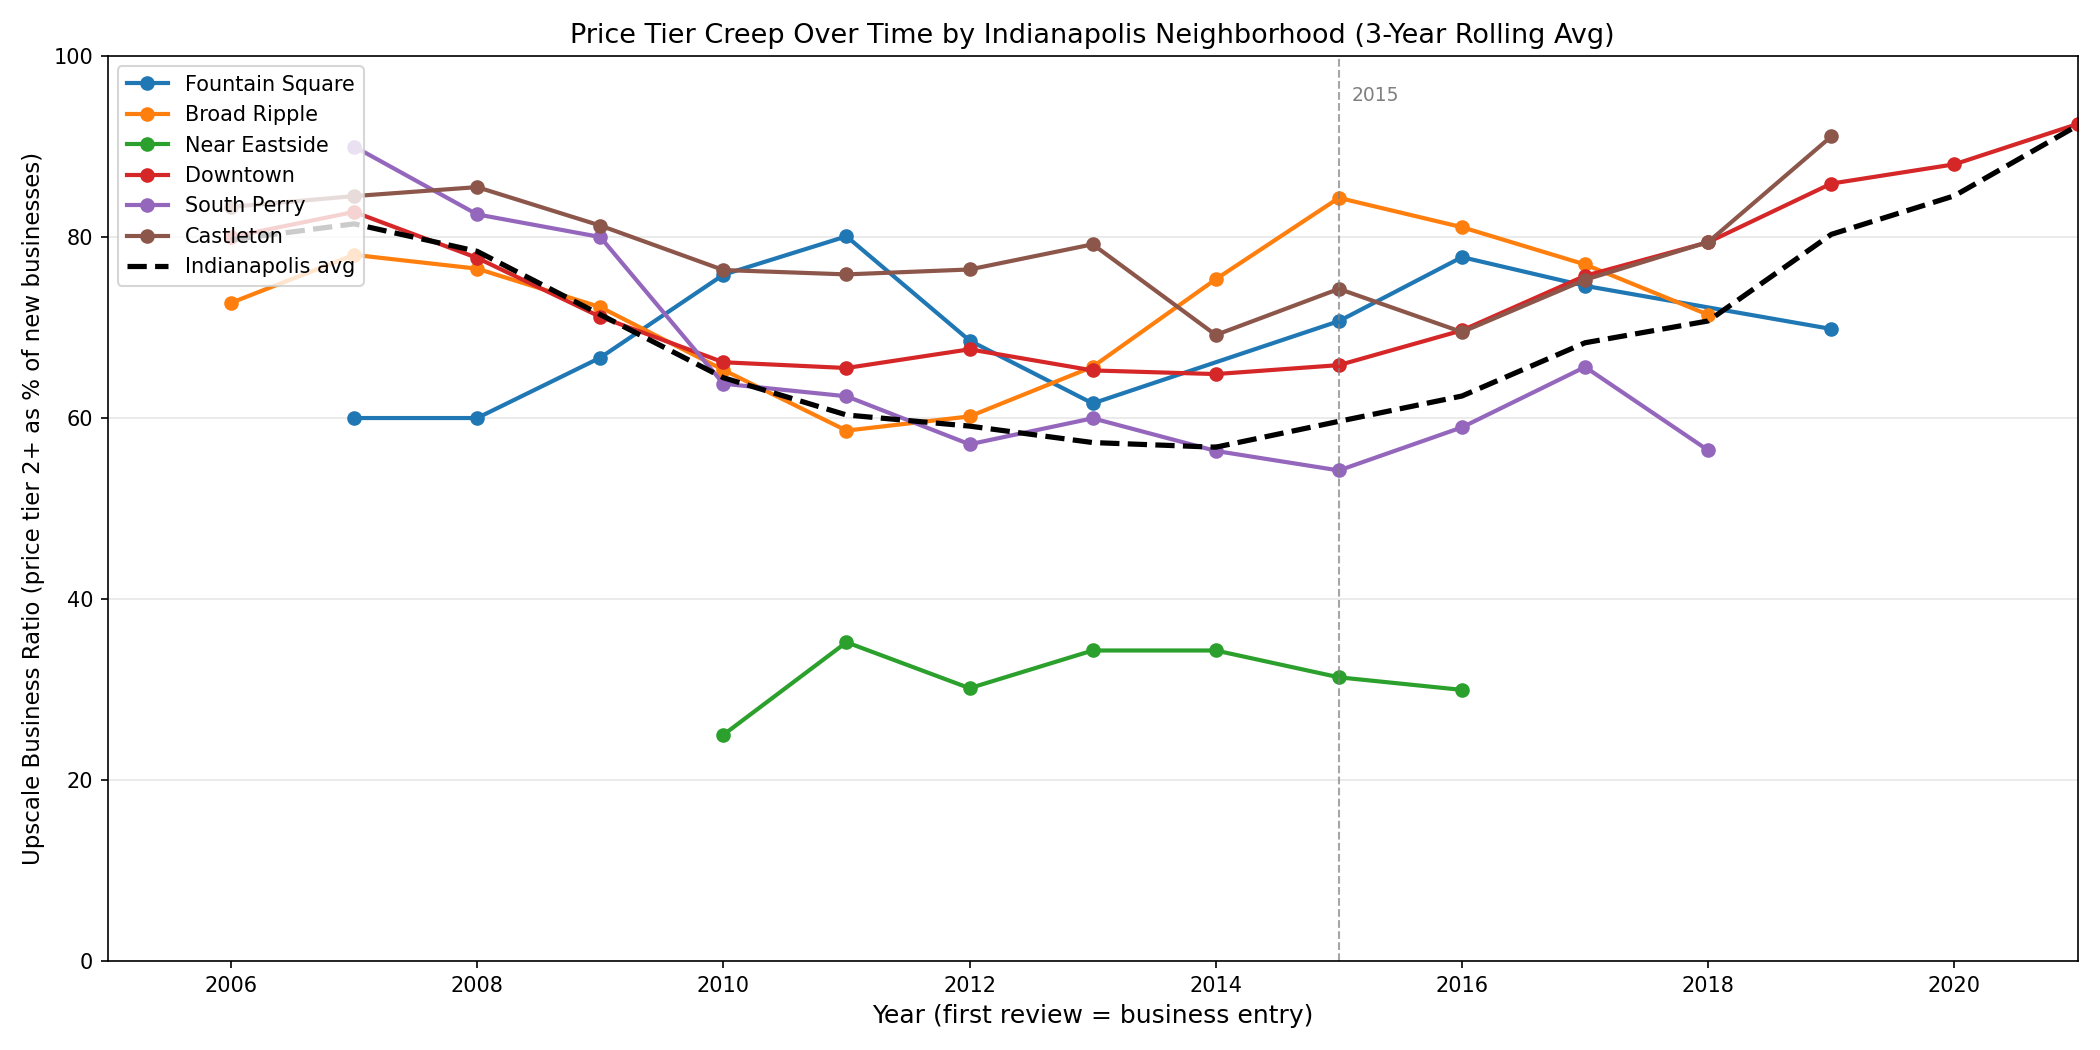
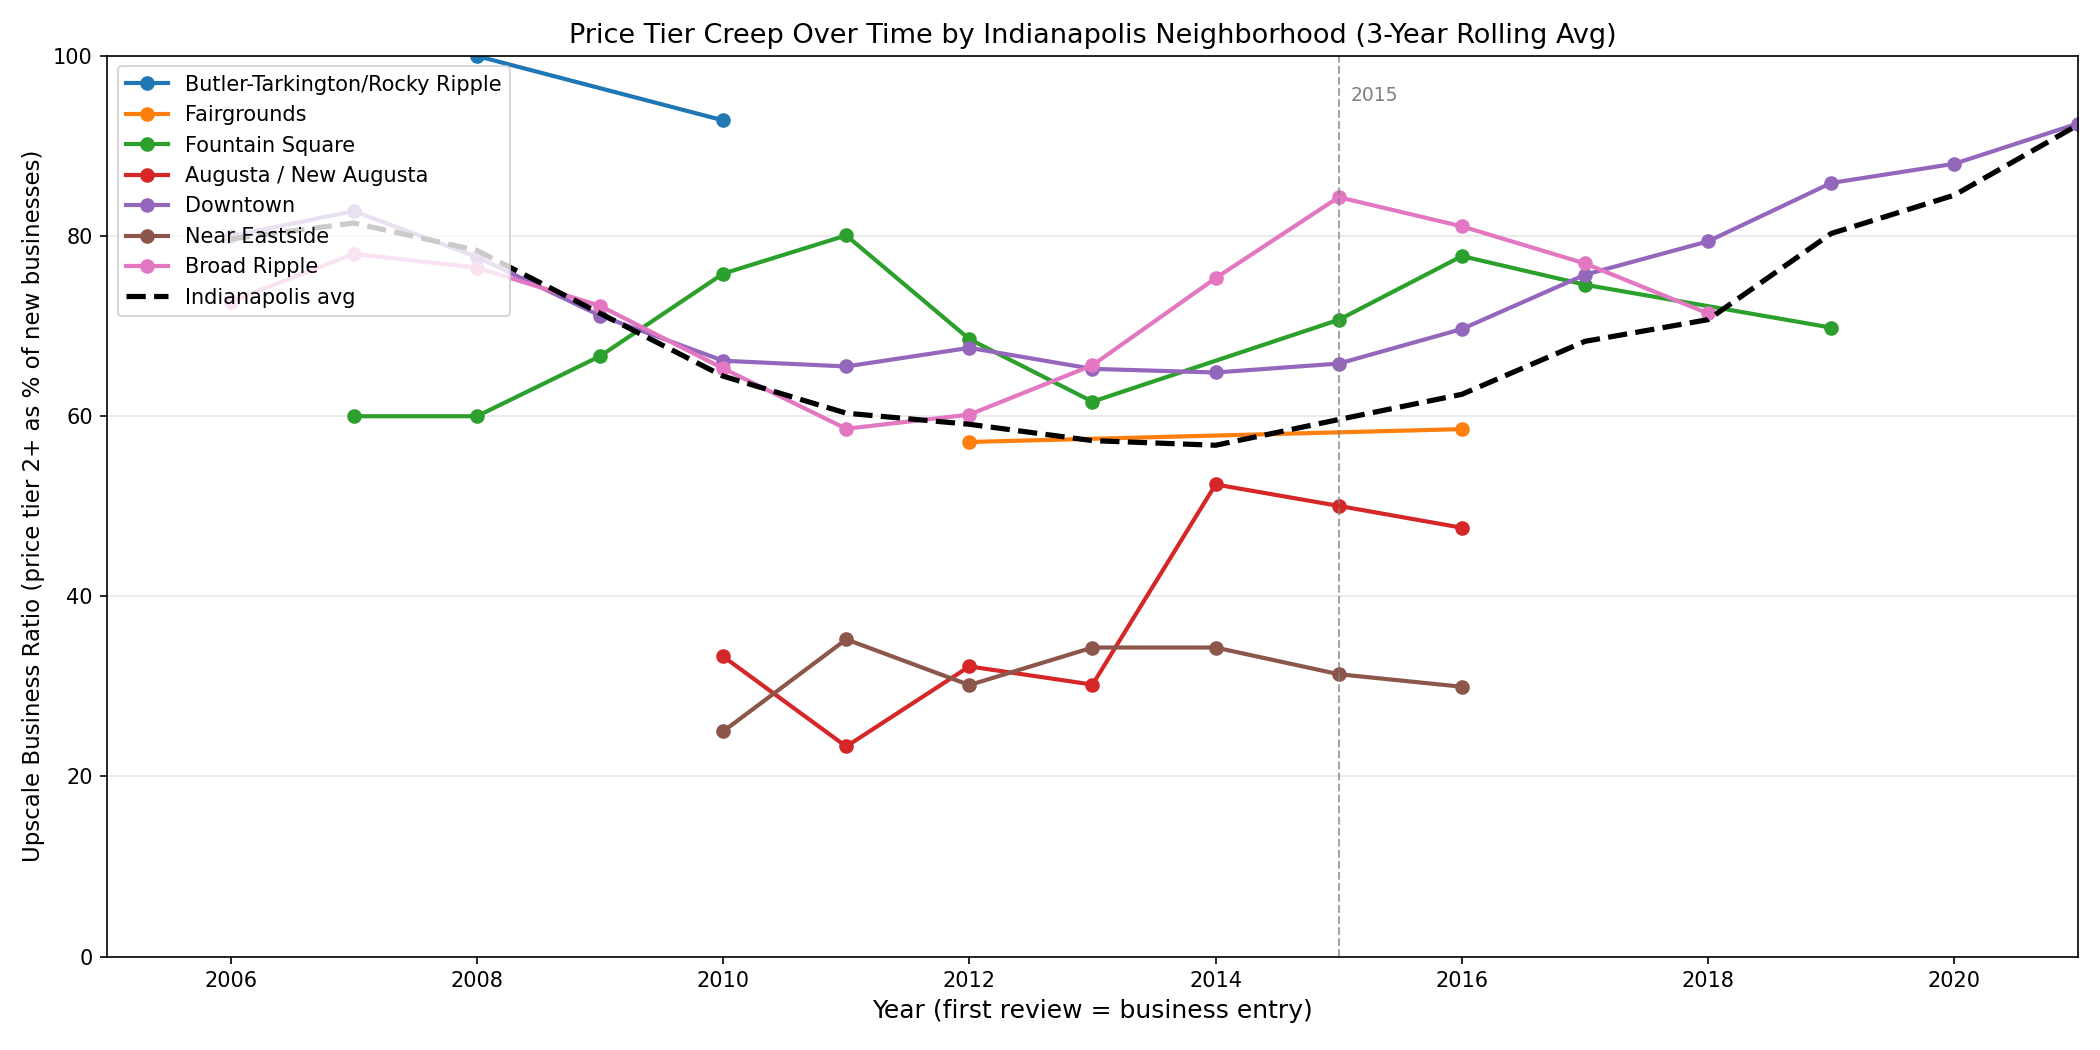
turnover graph

diff --git a/turnover_analysis.py b/turnover_analysis.py
@@ -32,7 +32,17 @@ client.admin.command("ping")
 print(f"Connected to MongoDB at {MONGO_URI}\n")
 
 db = client[DB_NAME]
-
+FOCUS_NEIGHBORHOODS = [
+    "Butler-Tarkington/Rocky Ripple",
+    "Fairgrounds",
+    "Fountain Square",
+    "Meridian Hills/Williams Creek",
+    "Augusta / New Augusta",
+    "Downtown",
+    "Near Eastside",
+    "Broad Ripple",
+    "Near NW - Riverside"
+]
 # ── Step 1: Aggregate first/last review date per business ──
 
 print("Aggregating first/last review dates per business...")
@@ -61,10 +71,11 @@ print(f"  Found review history for {len(review_map):,} businesses.\n")
 print("Fetching business metadata...")
 
 businesses = db.businesses.find(
-    {"neighborhood": {"$exists": True}},
+    {
+        "neighborhood": {"$exists": True, "$in": FOCUS_NEIGHBORHOODS}
+    },
     {"business_id": 1, "neighborhood": 1, "categories": 1, "is_open": 1}
 )
-
 # ── Step 3: Classify each business ────────────────────────
 
 closed_threshold = DATASET_CUTOFF - relativedelta(months=CLOSED_MONTHS)

diff --git a/price_tier_analysis.py b/price_tier_analysis.py
@@ -23,12 +23,14 @@ RESULTS_DIR     = "results"
 MIN_BUSINESSES  = 20
 MIN_PER_YEAR    = 5
 FOCUS_NEIGHBORHOODS = [
+    "Butler-Tarkington/Rocky Ripple",
+    "Fairgrounds",
     "Fountain Square",
-    "Broad Ripple",
-    "Near Eastside",
+    "Augusta / New Augusta",
     "Downtown",
-    "South Perry",
-    "Castleton"
+    "Near Eastside",
+    "Broad Ripple",
+    "Near NW - Riverside"
 ]
 
 os.makedirs(RESULTS_DIR, exist_ok=True)
